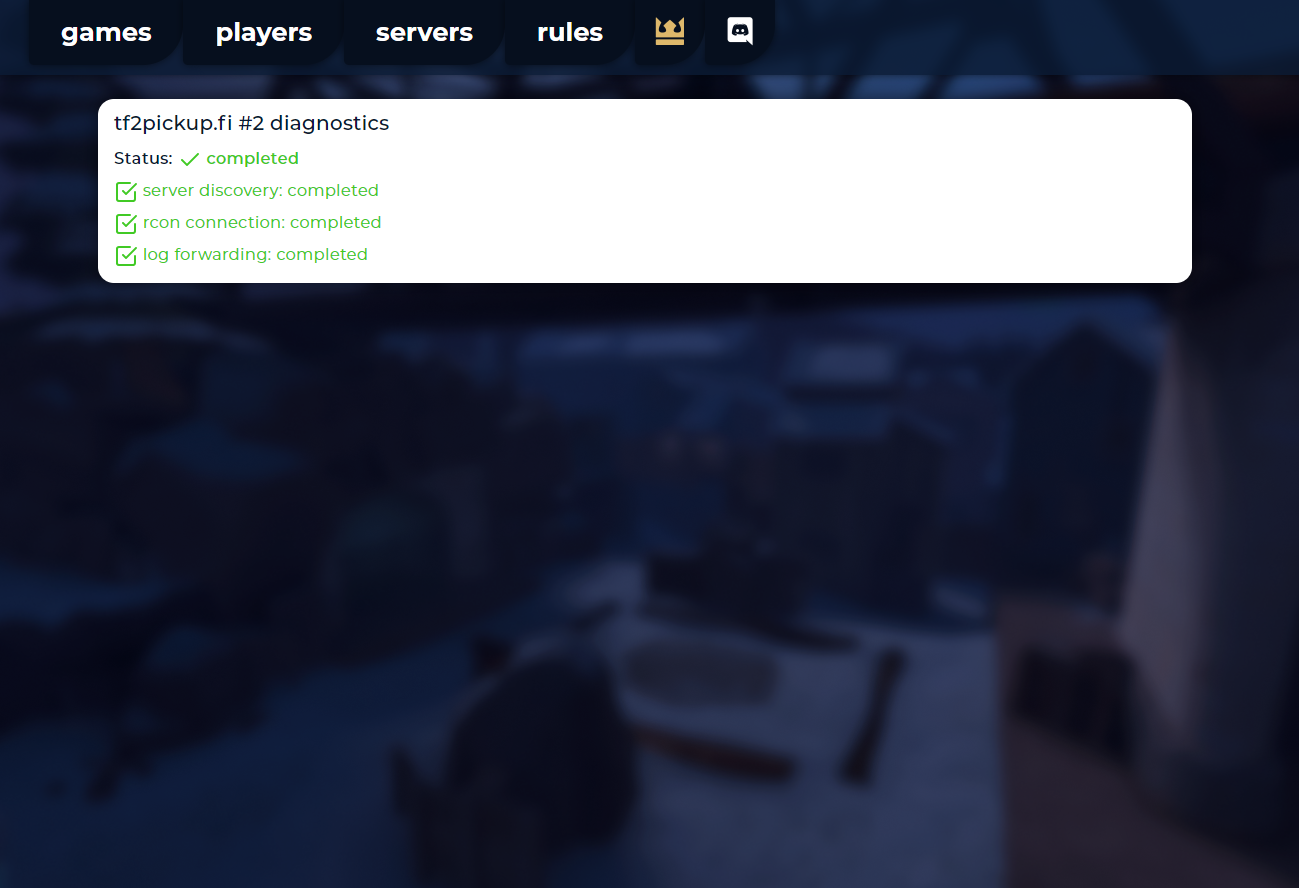
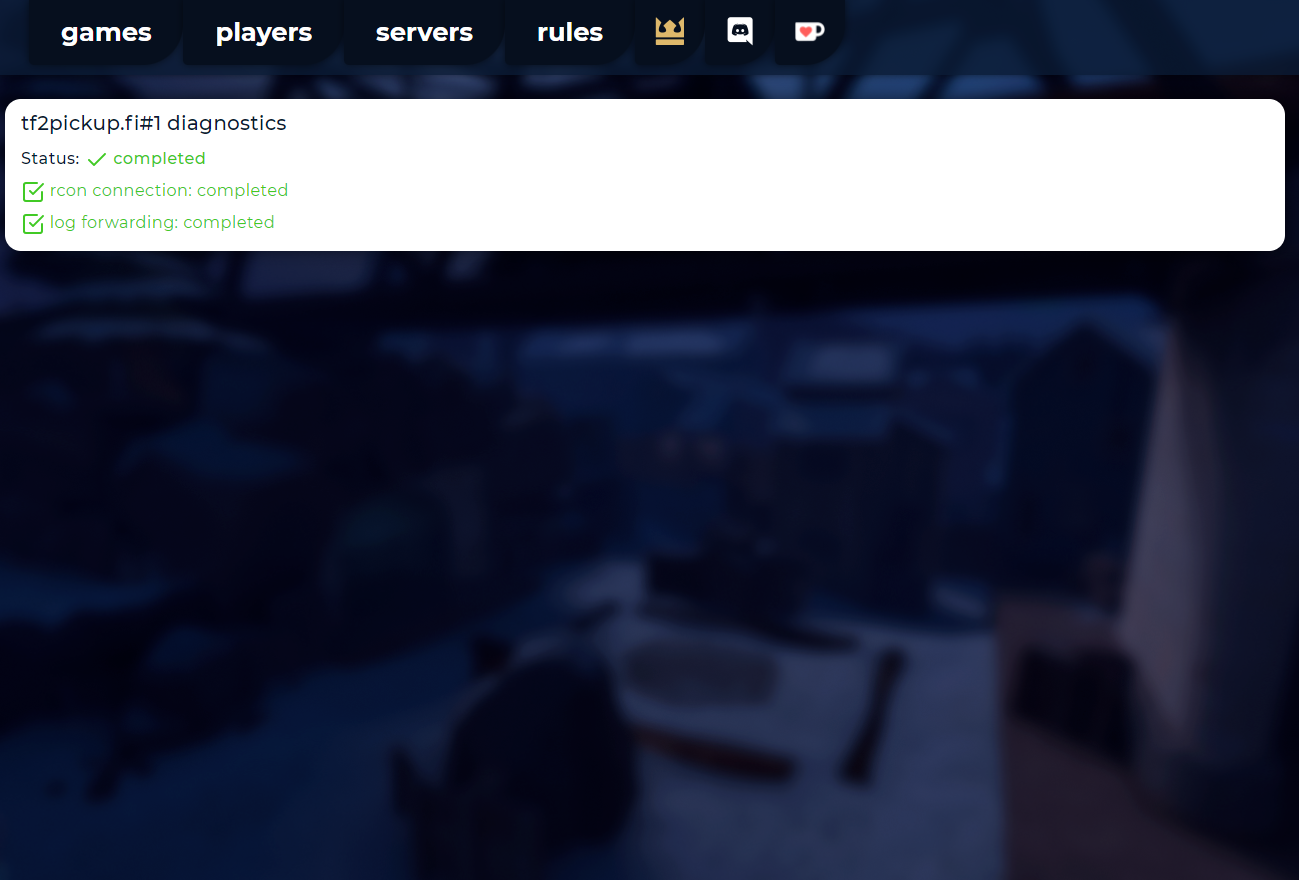
refactor: update adding game servers to the website

diff --git a/docs/final-touches.md b/docs/final-touches.md
@@ -20,22 +20,13 @@ After setting up the rules, they will show up in a popup for every user joining 
 
 ## Adding game servers to the website
 
-Pickup games require game servers on which it can be set up. In order to do that, you have to add one by entering the **servers** section and clicking a button to add game server. Define it's public name in the **Name** section, add the server address, port and the RCON password to the server. Example:
+Pickup games require game servers on which it can be set up. In order to do that, you have to define the same game server secret for the server (variable `GAME_SERVER_SECRET` in `.env`) and for game servers (variable `TF2PICKUPORG_SECRET` in `gameserver_x.env` or by defining `sm_tf2pickuporg_secret` value in game server's `server.cfg` configuration file). Server being behind a proxy may need an internal address value define, head over [there](/docs/site-components-deployment#gameserver_1env) for more details.
 
-```nolanguage
-Name: tf2pickup.fi #1
-Address: tf2pickup.fi
-Port: 27015
-RCON password: funny_rcon_password
-```
-
-![add-game-server](/img/content/add-game-server.png)
-
-After saving settings, the site will have to check if it can connect to the server and set it up. In most cases, the server status colour should be changed from red to green.
+This mechanism is used since server version 8.x and the game server setup is being done automatically. After discovering newly setup game servers, they will show up on the server list:
 
 ![game-server-status](/img/content/game-server-status.png)
 
-If that won't happen, click **Run diagnostics** button in order to perform server troubleshooting. The site will perform a few tests in order to see what may be a root cause of the problem.
+You can always use **Run diagnostics** button in order to perform server troubleshooting. The site will perform a few tests in order to see what may be a root cause of the problem.
 
 ![run-diagnostics](/img/content/run-diagnostics.png)
 
@@ -59,7 +50,7 @@ For setting a whitelist [look there](/docs/website-settings#defining-a-whitelist
 
 ## Set up voice chat settings
 
-Since server 8.x the voice chat setup is being done through the client and backend variables for it are deprecated. Those settings can be set by superusers only. There are three options to set it up:
+Since server version 8.x the voice chat setup is being done through the client and backend variables for it are deprecated. Those settings can be set by superusers only. There are three options to set it up:
 
 ![voice-chat-settings](/img/content/voice-chat-settings.png)
 

diff --git a/docs/website-settings.md b/docs/website-settings.md
@@ -9,6 +9,7 @@ Currently website settings lets you:
 - configure map pool,
 - configure whitelist,
 - configure default player skill,
+- configure player restrictions,
 - force create player account,
 - show site player skill table,
 - scramble maps available to vote at the moment,
@@ -27,6 +28,14 @@ You can configure as much maps as you want to. You have to make sure the map is 
 Here you can set up a whitelist by defining a whitelist name or its ID from [whitelist.tf](https://whitelist.tf). If not defined, all items will be available on the pickup games.
 
 ![set-whitelist](/img/content/set-whitelist.png)
+
+## Configurting player restrictions
+
+TODO: configure player restrtictions
+
+## Configuring voice server settings
+
+See [here](/docs/final-touches#set-up-voice-chat-settings).
 
 ## Force create a player account
 
